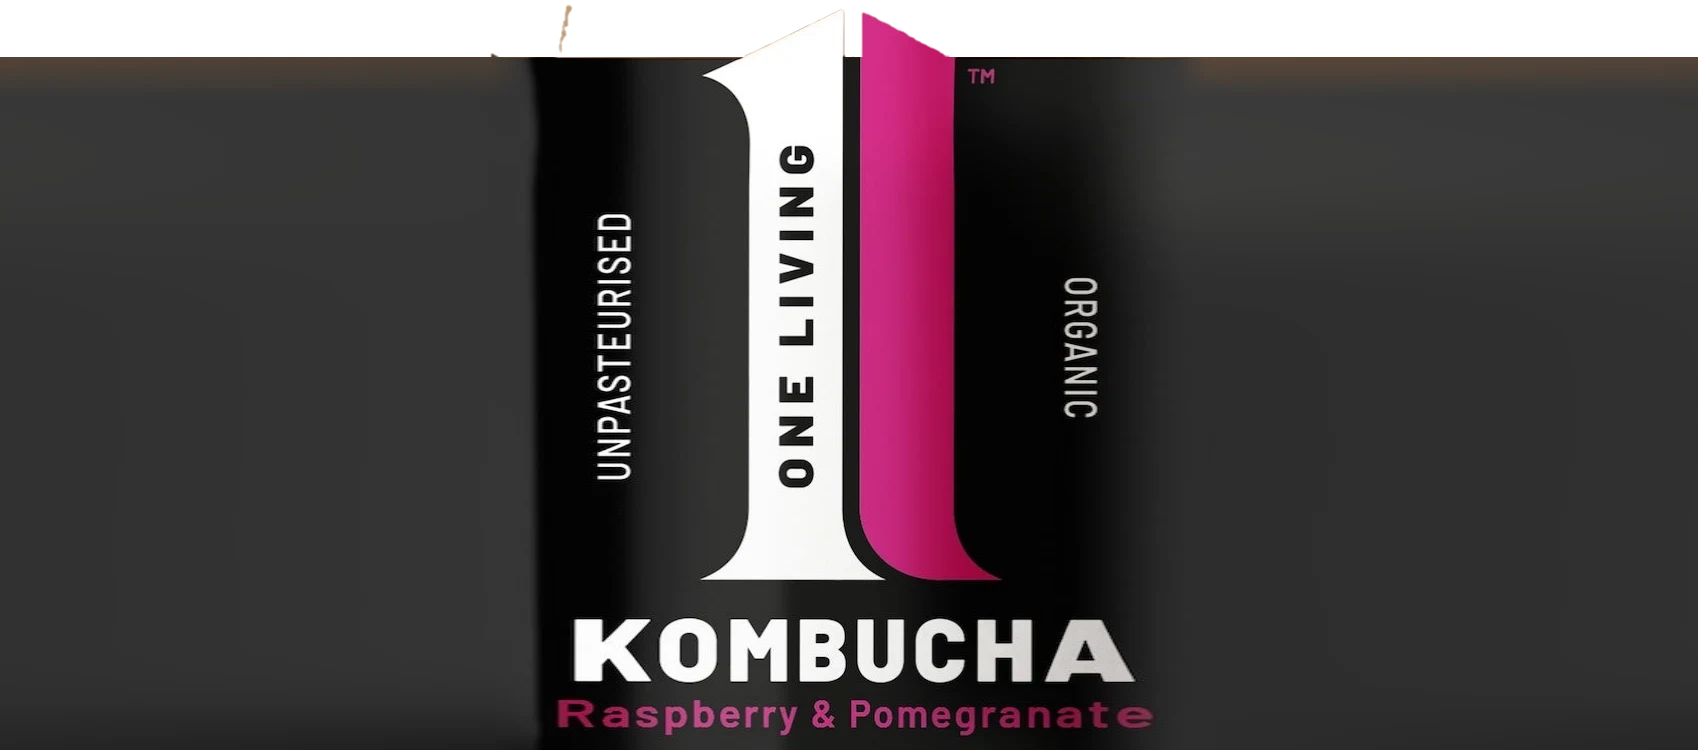
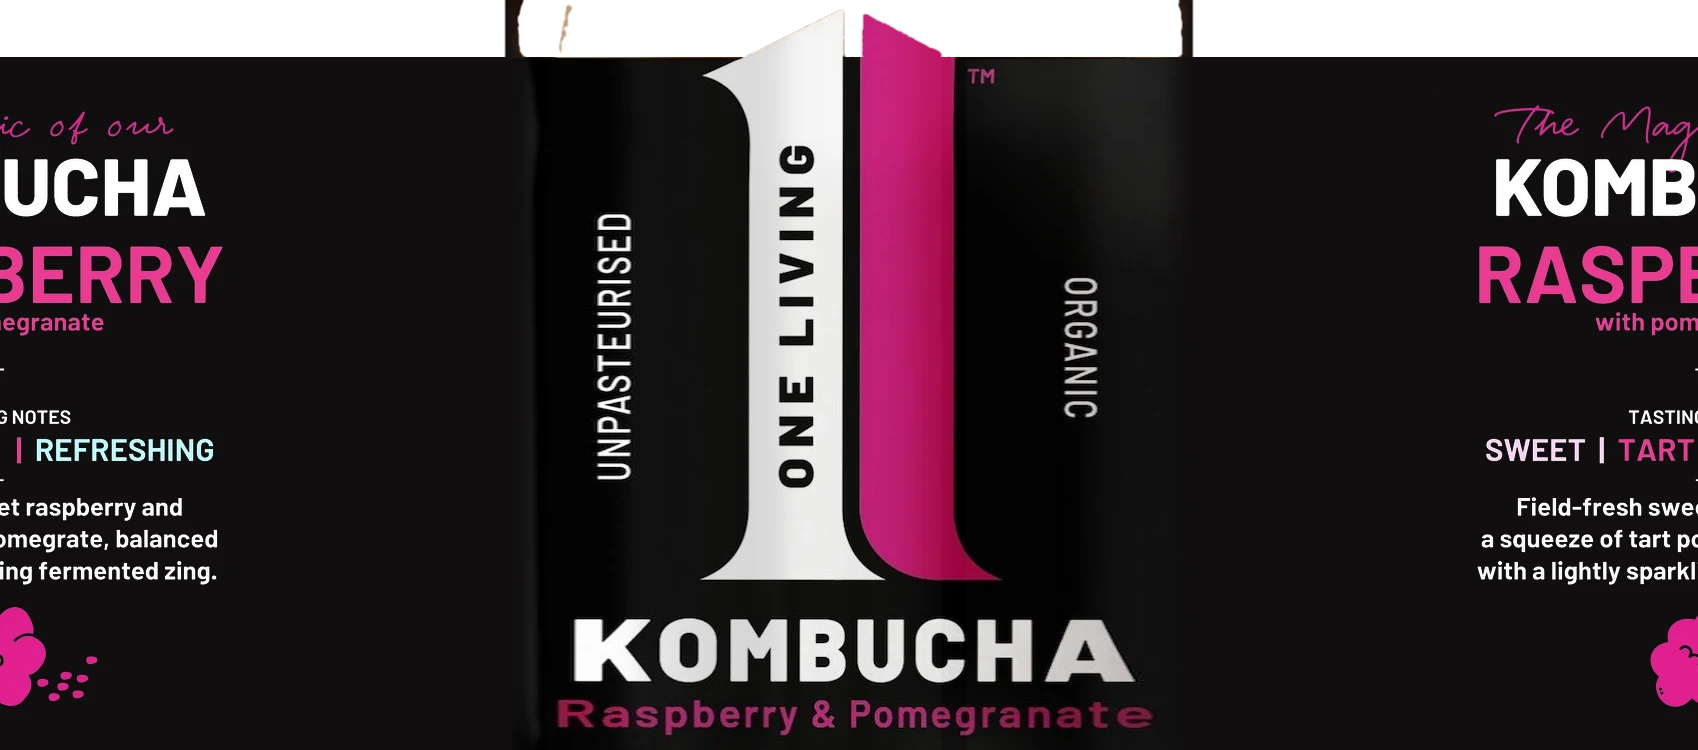
Gamme 3D : un vrai dos pour chaque boisson
- Bouteilles bio : le dos de l'étiquette noire reprend la fiche de
  dégustation de chaque parfum (oneliving.com), détourée et posée sur
  le noir de l'étiquette ; le voile du reflet de la photo est retiré
  colonne par colonne, sans toucher au logo ni aux textes.
- Canettes et shots : impression recto verso, le même visuel au dos,
  raccordé sur les côtés par un fondu uni ; zone de photo resserrée sur
  les canettes pour éviter le reflet du métal.

Claude-Session: https://claude.ai/code/session_01Eb6R6g7bRgs5Mu8JUuhNcn

diff --git a/scripts/extract-products.py b/scripts/extract-products.py
@@ -12,7 +12,8 @@ photo, écrite dans src/data/product-shapes.ts.
 Usage (Python 3 avec Pillow et numpy) :
   python3 scripts/extract-products.py --src dossier/des/photos
 
-Les photos attendues dans --src portent les noms de PRODUCTS ci-dessous.
+Les photos attendues dans --src portent les noms de PRODUCTS ci-dessous ; le dos des
+bouteilles bio reprend leur fiche de dégustation (card-<parfum>.jpg).
 """
 import argparse
 import json
@@ -29,12 +30,12 @@ FORMATS = {
     # bouteille en verre 33 cl : bouchon, puis étiquette noire sur le corps
     # (le haut du « 1 » et le macaron dépassent du bord droit de l'étiquette, ligne 595 :
     # au-dessus, seul ce qui n'est pas du verre ambré reste opaque)
-    'bouteille': {'ref': 'b-ginger', 'cap': (75, 238), 'label': (540, 1290), 'diecut': 597, 'base': 1450},
+    'bouteille': {'ref': 'b-ginger', 'cap': (75, 238), 'label': (540, 1290), 'diecut': 597, 'base': 1450, 'back': 'card', 'theta': 73},
     # canette 25 cl : tout le corps est imprimé, bords en aluminium
     # (l'ombre portée tombe à droite : les rayons sont mesurés sur le bord gauche)
-    'canette': {'ref': 'c-ginger', 'top': 134, 'label': (152, 864), 'base': 888},
+    'canette': {'ref': 'c-ginger', 'top': 134, 'label': (152, 864), 'base': 888, 'back': 'duplicate', 'theta': 60},
     # shot 10 cl : bouchon blanc, flacon transparent, étiquette sur le corps
-    'shot': {'ref': 's-energy', 'cap': (152, 292), 'label': (414, 744), 'base': 816},
+    'shot': {'ref': 's-energy', 'cap': (152, 292), 'label': (414, 744), 'base': 816, 'back': 'duplicate'},
 }
 
 PRODUCTS = [
@@ -42,6 +43,7 @@ PRODUCTS = [
     ('bouteille-mangue', 'b-mango', 'bouteille'),
     ('bouteille-passion', 'b-passion', 'bouteille'),
     ('bouteille-framboise', 'b-raspberry', 'bouteille'),
+    # (dos des bouteilles : fiches de dégustation card-<parfum>.jpg, oneliving.com)
     ('canette-gingembre', 'c-ginger', 'canette'),
     ('canette-passion', 'c-passion', 'canette'),
     ('canette-framboise', 'c-raspberry', 'canette'),
@@ -89,8 +91,39 @@ def axis_of(mask, y0, y1):
     return float(np.median(mids))
 
 
-def unwrap(im, mask, y0, y1, diecut=None):
-    """Déroule la bande [y0, y1] du cylindre sur 360°, face avant au centre."""
+def key_card(card):
+    """Détoure le texte et les illustrations d'une fiche sur fond sombre (alpha)."""
+    h, w, _ = card.shape
+    # on retire les mentions verticales des bords (déjà sur la face avant)
+    card = card[int(h * 0.035): int(h * 0.965), int(w * 0.115): int(w * 0.885)]
+    v = card.max(axis=2)
+    a = np.clip((v - 112) / (175 - 112), 0, 1)
+    return card, a
+
+
+def paste_card(out, alpha, card_img, top, bottom):
+    """Pose la fiche détourée au centre du dos (phi = pi), entre les lignes top et bottom."""
+    W = out.shape[1]
+    rolled = np.roll(out, W // 2, axis=1)  # le dos passe au centre de l'image
+    card, a = key_card(card_img)
+    th = bottom - top
+    tw = int(round(card.shape[1] * th / card.shape[0]))
+    c = np.asarray(Image.fromarray(card.astype(np.uint8)).resize((tw, th), Image.LANCZOS), np.float32)
+    ca = np.asarray(Image.fromarray((a * 255).astype(np.uint8)).resize((tw, th), Image.LANCZOS), np.float32)[..., None] / 255
+    x0 = W // 2 - tw // 2
+    region = rolled[top:bottom, x0:x0 + tw]
+    rolled[top:bottom, x0:x0 + tw] = region * (1 - ca) + c * ca
+    return np.roll(rolled, -(W // 2), axis=1)
+
+
+def unwrap(im, mask, y0, y1, diecut=None, back='blend', card=None, theta=None):
+    """Déroule la bande [y0, y1] du cylindre sur 360°, face avant au centre.
+
+    back : « blend » relie les deux bords par un dégradé, « duplicate » imprime
+    le même visuel au dos (impression recto verso, courante sur les canettes),
+    « card » pose une fiche produit détourée au dos (bouteilles bio).
+    """
+    tmax = math.radians(theta) if theta else THETA_MAX
     rows = range(y0, y1)
     cx = axis_of(mask, y0, y1)
     lefts = np.array([row_extent(mask, y)[0] for y in rows])
@@ -104,7 +137,7 @@ def unwrap(im, mask, y0, y1, diecut=None):
     width = int(round(2 * math.pi * r_mean))
     width -= width % 2
     phis = (np.arange(width) + 0.5) / width * 2 * math.pi - math.pi  # 0 = face
-    front = np.abs(phis) <= THETA_MAX
+    front = np.abs(phis) <= tmax
 
     out = np.zeros((len(ext), width, 3), np.float32)
     for i, y in enumerate(rows):
@@ -133,16 +166,55 @@ def unwrap(im, mask, y0, y1, diecut=None):
     kv = 40  # lissage vertical fort : le dos reste uni, sans rayures
     sm = lambda a: np.stack([np.convolve(np.pad(a[:, c], kv, mode='edge'), np.ones(2 * kv + 1) / (2 * kv + 1), mode='same')[kv:-kv] for c in range(3)], axis=1)
     left_c, right_c = sm(left_c), sm(right_c)
-    back = ~front
+    if back == 'card':
+        # étiquette noire : le dos et les bords prennent le noir mesuré au centre de la face
+        core = out[:, np.abs(phis) < math.radians(35)].reshape(-1, 3)
+        dark = core[core.max(axis=1) < np.percentile(core.max(axis=1), 30)]
+        paper = np.median(dark, axis=0)
+        left_c = np.tile(paper, (len(left_c), 1))
+        right_c = left_c.copy()
+        # voile du reflet de la photo : on ramène le noir de chaque colonne à celui du papier
+        zone = out[(diecut - y0 if diecut is not None else 0):, :][:, front]
+        v = zone.max(axis=2)
+        dark = v < 120  # fond de l'étiquette seulement, jamais le logo ni le texte
+        level = np.full(v.shape[1], np.nan)
+        for c in range(v.shape[1]):
+            col = v[dark[:, c], c]
+            if col.size > 0.15 * v.shape[0]:
+                level[c] = np.median(col)
+        ok = ~np.isnan(level)
+        level = np.interp(np.arange(len(level)), np.where(ok)[0], level[ok])
+        glare = np.clip(level - paper.max(), 0, None)
+        glare = np.convolve(np.pad(glare, 12, mode='edge'), np.ones(25) / 25, mode='same')[12:-12]
+        out[:, front] = np.clip(out[:, front] - glare[None, :, None], 0, 255)
+    back_mask = ~front
     # parcours du bord droit (phi = +max) au bord gauche (phi = -max) par l'arrière
-    t = ((phis[back] - THETA_MAX) % (2 * math.pi)) / (2 * math.pi - 2 * THETA_MAX)
-    out[:, back] = right_c[:, None] * (1 - t[None, :, None]) + left_c[:, None] * t[None, :, None]
+    t = ((phis[back_mask] - tmax) % (2 * math.pi)) / (2 * math.pi - 2 * tmax)
+    out[:, back_mask] = right_c[:, None] * (1 - t[None, :, None]) + left_c[:, None] * t[None, :, None]
+    if back == 'duplicate':
+        # même visuel au dos : la colonne phi reprend la colonne phi - pi
+        src = np.where(phis > 0, phis - math.pi, phis + math.pi)
+        copy = back_mask & (np.abs(src) <= tmax)
+        src_cols = np.clip(np.round((src[copy] + math.pi) / (2 * math.pi) * width - 0.5).astype(int), 0, width - 1)
+        out[:, copy] = out[:, src_cols]
+        # deux interstices de (180 - 2 x max) degrés : bord droit puis bord gauche
+        gap = back_mask & ~copy
+        gstart = np.where(phis[gap] > 0, tmax, -math.pi + tmax)
+        tg = (phis[gap] - gstart) / (math.pi - 2 * tmax)
+        out[:, gap] = right_c[:, None] * (1 - tg[None, :, None]) + left_c[:, None] * tg[None, :, None]
 
     # fondu doux à la jonction
     a = np.abs(phis)
-    blend = np.clip((a - (THETA_MAX - EDGE)) / EDGE, 0, 1) * front
+    blend = np.clip((a - (tmax - EDGE)) / EDGE, 0, 1) * front
     edge_col = np.where(phis[None, :, None] > 0, right_c[:, None], left_c[:, None])
     out = out * (1 - blend[None, :, None]) + edge_col * blend[None, :, None]
+    if back == 'duplicate':
+        # bords de la copie au dos
+        src = np.where(phis > 0, phis - math.pi, phis + math.pi)
+        copy = ~front & (np.abs(src) <= tmax)
+        b2 = np.clip((np.abs(src) - (tmax - EDGE)) / EDGE, 0, 1) * copy
+        e2 = np.where(src[None, :, None] > 0, right_c[:, None], left_c[:, None])
+        out = out * (1 - b2[None, :, None]) + e2 * b2[None, :, None]
     alpha = np.full(out.shape[:2], 255, np.uint8)
     if diecut is not None:
         n = diecut - y0
@@ -156,7 +228,10 @@ def unwrap(im, mask, y0, y1, diecut=None):
         a = np.asarray(Image.fromarray(a.astype(np.uint8)).filter(ImageFilter.GaussianBlur(1.2)), np.float32)
         a = np.clip((a - 60) * 1.6, 0, 255)
         alpha[:n] = a.astype(np.uint8)
-    rgba = np.dstack([out.astype(np.uint8), alpha])
+    if back == 'card' and card is not None:
+        top = (diecut - y0 if diecut is not None else 0) + 26
+        out = paste_card(out, alpha, card, top, out.shape[0] - 26)
+    rgba = np.dstack([np.clip(out, 0, 255).astype(np.uint8), alpha])
     return rgba, r_mean
 
 
@@ -206,7 +281,10 @@ def main():
         spec = FORMATS[fmt]
         im = load(args.src, name)
         m = mask_of(im)
-        lab, _ = unwrap(im, m, *spec['label'], diecut=spec.get('diecut'))
+        card = None
+        if spec.get('back') == 'card':
+            card = load(args.src, 'card-' + name.split('-', 1)[1])
+        lab, _ = unwrap(im, m, *spec['label'], diecut=spec.get('diecut'), back=spec.get('back', 'blend'), card=card, theta=spec.get('theta'))
         img = Image.fromarray(lab, 'RGBA') if 'diecut' in spec else Image.fromarray(lab[..., :3])
         img.save(os.path.join(out_dir, pid + '-etiquette.webp'), quality=88)
         # photo recadrée sur le produit, pour les visuels fixes
